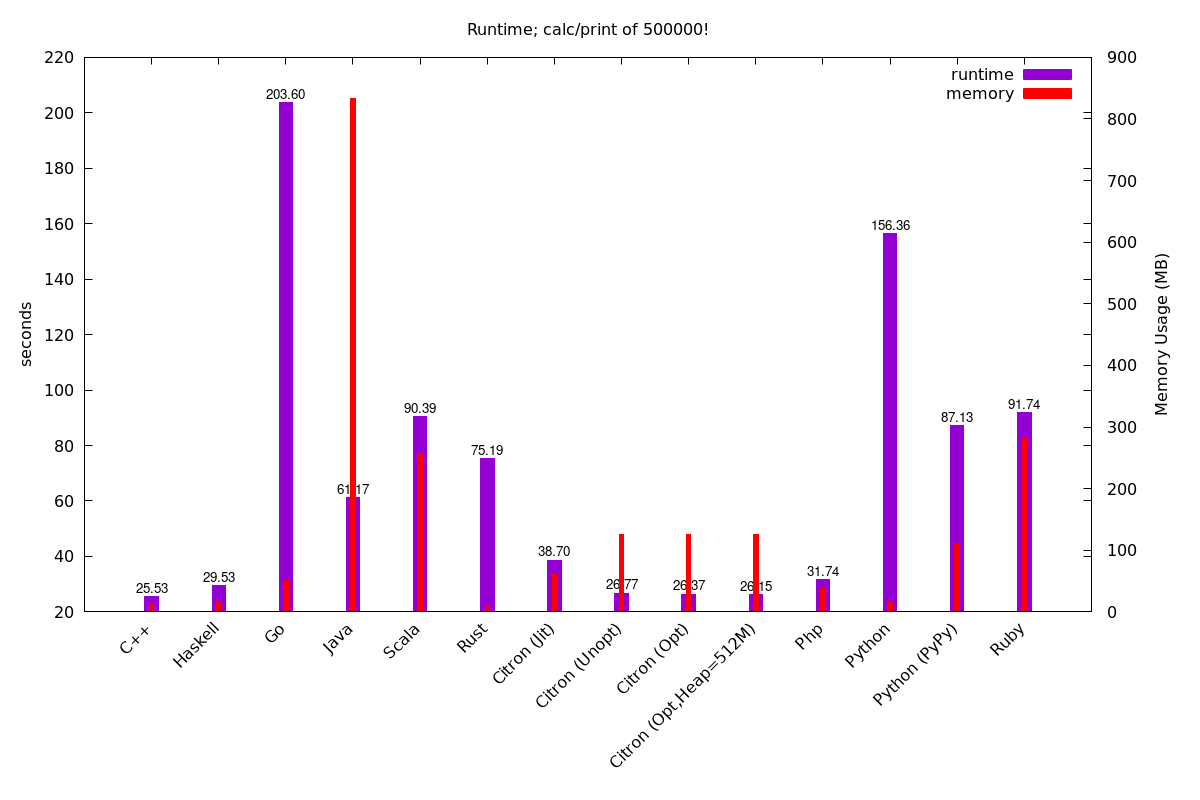
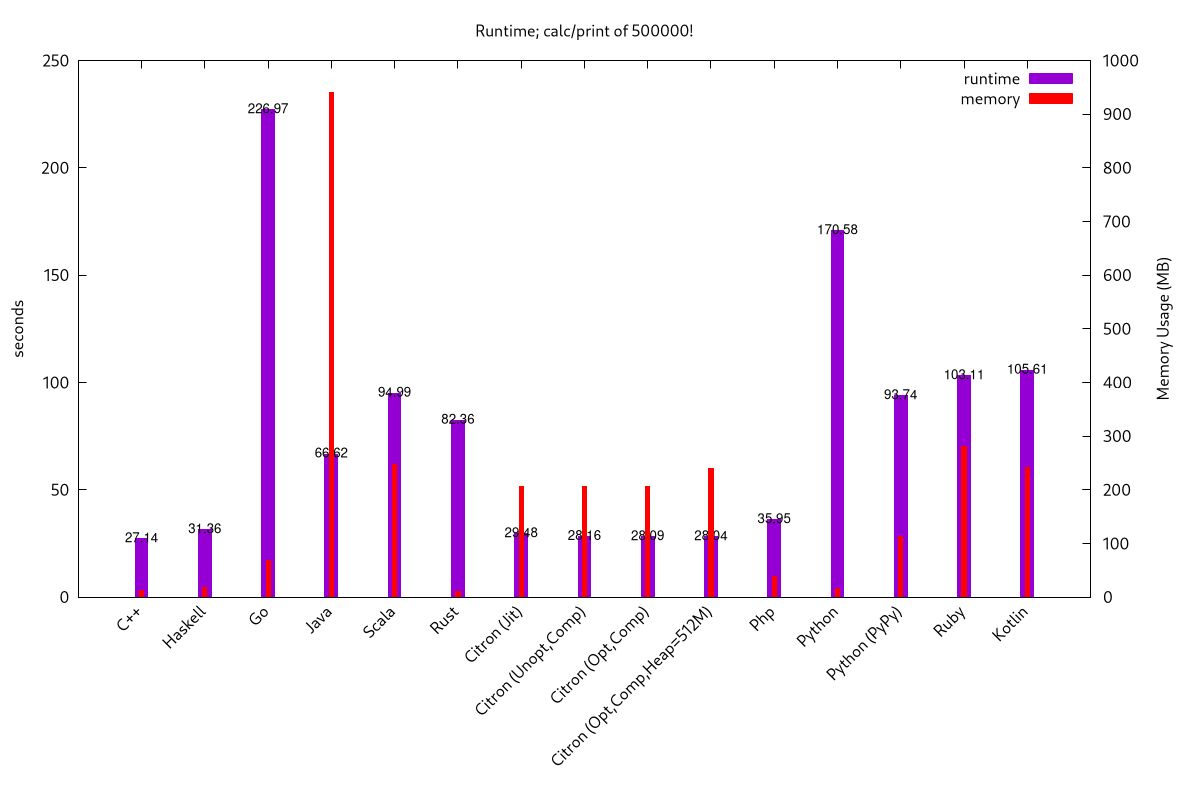
add Kotlin, update Rust

diff --git a/kotlin.kt b/kotlin.kt
@@ -1,0 +1,11 @@
+package test.bigint;
+
+import java.math.BigInteger;
+
+fun main() {
+    println(
+        (1..500000).fold(1.toBigInteger(), {
+            acc: BigInteger, i: Int -> acc * i.toBigInteger()
+        })
+    );
+}

diff --git a/js/js.js b/js/js.js
@@ -1,6 +1,6 @@
 let r = BigInt(1);
 
-for(let a=2n; a<500000n; a++)
+for(let a=BigInt(2),b=2; b<500000; a++,b++)
     r *= a;
 
 console.log(r);

diff --git a/go.go b/go.go
@@ -8,7 +8,9 @@ import (
 func main() {
 	i := big.NewInt(1);
 	one := big.NewInt(1);
-	for z := big.NewInt(2); z.Cmp(big.NewInt(500000)) < 0; {
+	huge := 500000;
+	_i := 2
+	for z := big.NewInt(2); _i < huge; _i+=1{
 		i.Mul(i,z);
 		z.Add(z,one);
 	}
